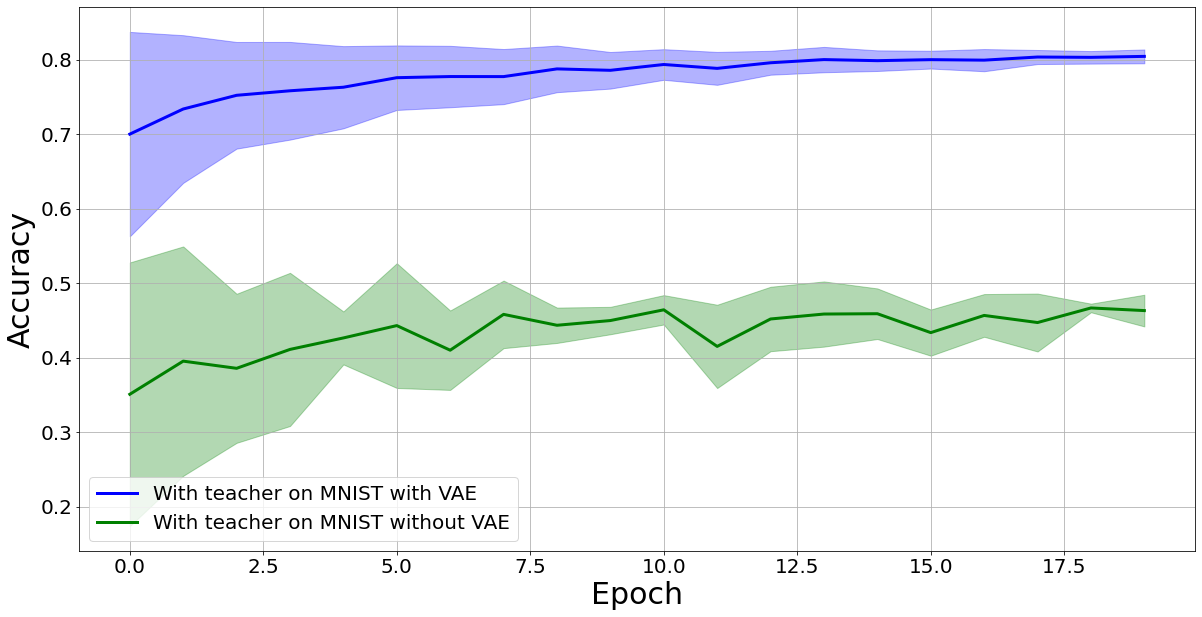
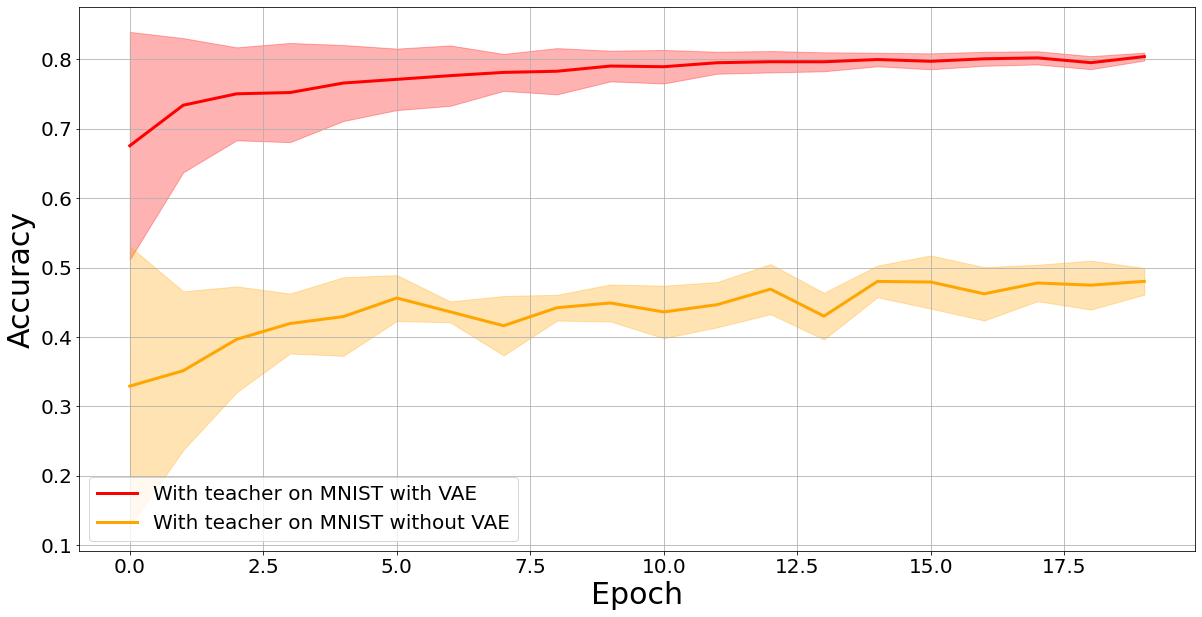
Updates from Overleaf

diff --git a/Text/experiment.tex b/Text/experiment.tex
@@ -4,12 +4,37 @@
 
 Для анализа моделей, полученных путем дистилляции модели учителя в модель ученика, проводится вычислительный эксперимент для задачи классификации.\\
 Эксперимент проводится для выборки FashionMNIST~\cite{FMNIST} - набора изображений предметов одежды. В качестве моделей учителя $\textbf{f}$ и ученика $\textbf{g}$ рассматриваются четырёхслойная и однослойная нейронные сети соответсвенно. Функция активации --- ReLu. Для решения оптимизационной задачи используется градиентный метод Adam~\cite{Adam}.\\
-Выборка разделяется на 3 части: две для обучения многоресурного и малоресурсного доменов, а также тестовая часть выборки. Многоресурсная часть содержит 59000 объектов, малоресурсная часть содержит 1000 объектов, а тестовая часть содержит 10000 объектов.
+Выборка разделяется на 3 части: многоресурсная, малоресурсная, а также тестовая часть выборки. Многоресурсная часть содержит 59000 объектов, малоресурсная часть содержит 1000 объектов, а тестовая часть содержит 10000 объектов.
+
+\begin{table}[h!t]
+\begin{center}
+\caption{Выборки}
+\label{table_1}
+\begin{tabular}{|c|c|c|}
+\hline
+	Выборка & название &\# элементов\\
+	\hline
+	\multicolumn{1}{|l|}{FashionMNIST}
+	& Вся выборка& 60000\\
+	\hline
+	\multicolumn{1}{|l|}{train big}
+	& Многоресурсная часть& 59000\\
+	\hline
+	\multicolumn{1}{|l|}{train small}
+	& Малоресурсная часть& 1000\\
+	\hline
+	\multicolumn{1}{|l|}{test}
+	& Тестовая часть& 10000\\
+\hline
+
+\end{tabular}
+\end{center}
+\end{table}
 
 \subsection{Анализ базовой дистилляции}
 
-\paragraph{Обучение на обоих доменах.}
-Модели учителя и ученика обучаются на обоих доменах.\\
+\paragraph{Обучение на всей выборке.}
+Модели учителя и ученика обучаются всей выборке FashionMNIST~\cite{FMNIST}.\\
 \begin{figure}[h!t]\center
 \subfloat[]
 {\includegraphics[width=0.5\textwidth]{results/acc}}
@@ -22,8 +47,8 @@
 На графиках видно, что модель, использующая метки учителя, показывает лучшее значение accuracy, при этом наблюдается значительное снижение кросс-энтропийной ошибки.
 
 
-\paragraph{Обучение на малоресурсном домене.}
-Модель учителя обучается на многоресурсном домене, а модель ученика обучается на малоресурсном домене.\\
+\paragraph{Обучение на малоресурсной части.}
+Модель учителя обучается на многоресурсной части, а модель ученика обучается на малоресурсной части.\\
 \begin{figure}[h!t]\center
 \subfloat[]
 {\includegraphics[width=0.5\textwidth]{results/small_acc}}
@@ -37,7 +62,7 @@
 
 \newpage
 \paragraph{Обучение на выборке с шумом.}
-Добавим к многоресурсному домену нормальный шум $\mathcal{N}\bigr(0,\frac{1}{10}\bigr)$ и обучим на нем модель учителя. Модель ученика обучается на малоресурсном домене без шума.
+Добавим к многоресурсной части нормальный шум $\mathcal{N}\bigr(0,\frac{1}{10}\bigr)$ и обучим на нем модель учителя. Модель ученика обучается на малоресурсной части без шума.
 \begin{figure}[h!t]\center
 {\includegraphics[width=0.5\textwidth]{results/noise}}
 \caption{Сравнение объекта выборки до и после добавления шума}
@@ -52,10 +77,11 @@
 \end{figure}\\
 На рис.4а показан график зависимости метрики accuracy на тестовой выборке между истинными метками объектов и вероятностями, предсказанными моделью ученика.\\
 На рис.4б показан график зависимости кросс-энтропии на тестовой выборке между истинными метками объектов и вероятностями, предсказанными моделью ученика.\\
-На графиках видно, что значения accuracy и CrossEntropyLoss модели, использующей метки учителя на выборке с шумом, лежат между соответствующими значениями для модели без учителя и для модели, использующей метки учителя на выборке без шума. Получаем, что шум в выборке не влияет на качество.
+На графиках видно, что значения accuracy и CrossEntropyLoss модели, использующей метки учителя на выборке с шумом, лежат между соответствующими значениями для модели без учителя и для модели, использующей метки учителя на выборке без шума.\\
+Получаем, что шум в выборке не влияет на качество.
 
 \paragraph{Обучение на выборке с dilation.}
-Применим к многоресурсному домену сверточное преобразование с параметром $\text{dilation}=2$ и обучим на нем модель учителя. Модель ученика обучается на малоресурсном домене.\\
+Применим к многоресурсной части сверточное преобразование с параметром $\text{dilation}=2$ и обучим на нем модель учителя. Модель ученика обучается на малоресурсной части.\\
 \begin{figure}[h!t]\center
 {\includegraphics[width=0.5\textwidth]{results/dilation}}
 \caption{Сравнение объекта выборки до и после преобразования}
@@ -73,7 +99,7 @@
 На графиках видно, что значения accuracy и CrossEntropyLoss модели, использующей метки учителя на выборке с преобразованием, лежат между соответствующими значениями для модели без учителя и для модели, использующей метки учителя на выборке без преобразования.
 
 \subsection{Вариационный автокодировщик}
-В качестве преобразования элементов выборки FashionMNIST~\cite{FMNIST} в элементы выборки MNIST используем модель вариационного автокодировщика, аппроксимирующую отображение $\varphi$.
+В качестве преобразования элементов выборки FashionMNIST~\cite{FMNIST} в элементы выборки MNIST~\cite{MNIST} используем модель вариационного автокодировщика~\cite{VAE}, аппроксимирующую отображение $\varphi$.
 \paragraph{Базовая модель автокодировщика.} Данная модель состоит из двух частей. Сначала строится вероятностоное распределение в скрытом пространстве, которое позволяет генерировать кодовые представления для одного объекта. Далее с помощью декодировщика строится вероятностное распределение, позволяющее генерировать реконструкци исходного объекта.\\
 \\
 $\mathbf{q_{\alpha}(z|x)}$-вероятностный кодировщик\\
@@ -87,7 +113,7 @@ $$\hat{\alpha}, \hat{\beta} = \arg\max_{\alpha, \beta} \mathcal{L}(\alpha, \beta
 
 \newpage
 \paragraph{Генерация отображения из FashionMNIST в MNIST.}
-Воспользуемся моделью вариационного автокодировщика для преобразования изображений одежды из выборки FashionMNIST~\cite{FMNIST} в изображения цифр на основе выборки MNIST.\\
+Воспользуемся моделью вариационного автокодировщика~\cite{VAE} для преобразования изображений одежды из выборки FashionMNIST~\cite{FMNIST} в изображения цифр на основе выборки MNIST~\cite{VAE}.\\
 Создадим синтетическую выборку, где каждому изображению одежды будет соответстовать случайное изображение цифры из того же класса.\\
 \begin{figure}[h!t]\center
 \subfloat[]
@@ -97,8 +123,8 @@ $$\hat{\alpha}, \hat{\beta} = \arg\max_{\alpha, \beta} \mathcal{L}(\alpha, \beta
 {\includegraphics[width=0.4\textwidth]{results/fmnist_vae_mnist.png}}\\
 \caption{a) Объекты синтетический выборки; b) Объекты исходной выборки до и после работы автокодировщика}
 \end{figure}\\
-Далее воспользуемся моделью вариационного автокодировщика, состоящего из одного кодировщика и двух декодировщиков, соответствующих генерации объектов цифр или одежды. Используем модель с размером скрытого представления, равным 64.\\
-На основе данной выборки обучим модель вариационного автокодировщика, минимизируя ошибку между выходом модели и исходным значением --- изображением одежды и ошибку между выходом модели и целевым значением --- изображением цифр, соответствующего исходному объекту.\\
+Далее воспользуемся моделью вариационного автокодировщика~\cite{VAE}, состоящего из одного кодировщика и двух декодировщиков, соответствующих генерации объектов цифр или одежды. Используем модель с размером скрытого представления, равным 64.\\
+На основе данной выборки обучим модель вариационного автокодировщика~\cite{VAE}, минимизируя ошибку между выходом модели и исходным значением --- изображением одежды и ошибку между выходом модели и целевым значением --- изображением цифр, соответствующего исходному объекту.\\
 Получили модель, способную генеририровать семейство новых объектов - изображений цифры или изображений одежды для одного и того же изображения одежды.
 \newpage
 Посмотрим также на изменение выхода модели при изменении случайного вектора в скрытом представлении. Для визуализации построим скрытое представление размерности 2:\\
@@ -113,7 +139,9 @@ $$\hat{\alpha}, \hat{\beta} = \arg\max_{\alpha, \beta} \mathcal{L}(\alpha, \beta
 \end{figure}\\
 
 \subsection{Анализ качества модели, предложенной на основе вариационного автокодировщика}
-Будем обучать модель учителя на выборке MNIST, а модель ученика на выборке FashionMNIST. При этом при обучении модели ученика будем использовать метки учителя, подавая ему на вход выход вариационного автокодировщика, переводящего изображения одежды в изображения цифр.\\
+Будем обучать модель учителя на выборке MNIST~\cite{MNIST}, а модель ученика на выборке FashionMNIST~\cite{FMNIST}. При этом при обучении модели ученика будем использовать метки учителя, подавая ему на вход выход вариационного автокодировщика~\cite{VAE}, переводящего изображения одежды в изображения цифр.\\
+Также для сравнения покажем качество аппроксимации без использования вариационного автокодировщика~\cite{VAE}: модель ученика обучается на выборке FashionMNIST~\cite{FMNIST}, модель учителя обучается на выборке MNIST~\cite{MNIST} и используется при обучении ученика, получая на вход изображения одежды без преобразования вариационным автокодировщиом.\\
+
 \begin{figure}[h!t]\center
 \subfloat[]
 {\includegraphics[width=0.5\textwidth]{results/vae_acc}}
@@ -121,18 +149,28 @@ $$\hat{\alpha}, \hat{\beta} = \arg\max_{\alpha, \beta} \mathcal{L}(\alpha, \beta
 {\includegraphics[width=0.5\textwidth]{results/vae_loss}}\\
 \caption{Качество аппроксимации при использовании VAE на малодоменной выборке. Все результаты усреднены по 5 запускам. a) accuracy; b) CrossEntropyLoss между истинными и предсказанными учеником метками}
 \end{figure}\\
-Также для сравнения покажем качество аппроксимации без использования вариационного автокодировщика.\\
+
 \begin{figure}[h!t]\center
 \subfloat[]
 {\includegraphics[width=0.5\textwidth]{results/vae_acc_comparison}}
 \subfloat[]
 {\includegraphics[width=0.5\textwidth]{results/vae_loss_comparison}}\\
 \caption{Сравнение качества аппроксимации в зависимости от использования VAE на малодоменной выборке. Все результаты усреднены по 5 запускам. a) accuracy; b) CrossEntropyLoss между истинными и предсказанными учеником метками}
-\end{figure}\\
+\end{figure}
 
-На графике видно, что без использования отображения $\varphi$ модель становится более шумной с явным снижением точности.
+На графиках видно, что без использования отображения $\varphi$ модель становится более шумной с явным понижением качества аппроксимации.
 
 \newpage
 \subsection{Анализ качества модели на расширенной синтетически сгенерированной выборке}
-Для каждого объекта малодоменной выборки сгенерируем 70 изображений цифр с помощью модели вариационного автокодировщика и создадим новую выборку из 70000 объектов.\\
-Модель ученика обучается на малодоменной выборке, модель учителя на новой выборке и используется при обучении ученика.
+На основе малоресурсной части выборки сгенерируем новую выборку, сгенерировав для каждого объекта одежды 70 изображений цифр с помощью модели вариационного автокодировщика~\cite{VAE}. Далее разделим полученную выборку на две части: часть для обучения содержит 60000 объектов, тестовая часть содержит 10000 объектов.\\
+Модель ученика обучается на малоресурсной части выборки, модель учителя на сгенерированной расширенной выборке и используется при обучении ученика.
+
+\begin{figure}[h!t]\center
+\subfloat[]
+{\includegraphics[width=0.5\textwidth]{results/ext_mnist_acc.png}}
+\subfloat[]
+{\includegraphics[width=0.5\textwidth]{results/ext_mnist_loss.png}}\\
+\caption{Качество аппроксимации на тестовой выборке. Все результаты усреднены по 5 запускам. a) accuracy; b) CrossEntropyLoss между истинными и предсказанными учеником метками}
+\end{figure}\\
+
+На графиках видно, что значения accuracy и CrossEntropyLoss модели, использующей метки учителя, обученного на сгенерированной расширенной выборке, лежат между соответствующими значениями для модели без учителя и для модели, использующей метки учителя, обученного на многоресурсной части выборки.

diff --git a/Text/introduction.tex b/Text/introduction.tex
@@ -7,7 +7,7 @@
 \paragraph{Новизна.} Предложен подход для случая, когда модели учителя и ученика заданы на выборках разной мощности. При этом задана связь между выборками.
 \subsection{Обзор предметной области}
 Дистилляция моделей машинного обучения использует метки модели с большим числом параметров для обучения модели с меньшим числом параметров. В~\cite{Hinton2015} рассматривается метод дистилляции, предложенной Дж.Хинтоном, с учетом меток учителя при помощи функции \text{softmax} с параметром температуры, а в~\cite{Vapnik2016} рассматривается объединение методов дистилляци, предложенной Дж.Хинтоном, и привилегированной информации~\cite{Vapnik2016}, предложенной В.Вапником, в обобщенную дистилляцию. Дистиляцция моделей используется в широком классе задач. В~\cite{MDASR} рассматривается метод дистилляции моделей для задачи распознавания речи.\\
-Часто выборки могут состоять из объектов, которые можно разделить на домены~\cite{image_to_image}. К примеру, можно составить отображение из множества реальных фотографий малой мощности во множество сгенерированных движком изображений, мощность которого естественно больше~\cite{DA}. Одним из самых простых примеров генерации новых изображений является работа модели вариационного автокодировщика~\cite{VAE}, способного для одного и того же объекта строить вероятностное распределение, на основе которого можно получить целое семейство новых объектов. Для задачи дистилляции, предложенной Джеффри Хинтоном, исходный и целевой домены равны. Различные постановки задач доменной адаптации описываются в~\cite{DeepvisDA}, встречаются постановки с частично размеченным целевым доменом и неразмеченным вовсе. Таким образом, доменная адаптация использует размеченные данные нескольких исходных доменов для выполнения новых задач в целевом домене.\\
+Часто выборки могут состоять из объектов, которые можно разделить на домены~\cite{image_to_image, DA via prompt learning}. К примеру, можно составить отображение из множества реальных фотографий малой мощности во множество сгенерированных движком изображений, мощность которого естественно больше~\cite{DA,UDA}. Одним из самых простых примеров генерации новых изображений является работа модели вариационного автокодировщика~\cite{VAE}, способного для одного и того же объекта строить вероятностное распределение, на основе которого можно получить целое семейство новых объектов. Для задачи дистилляции, предложенной Джеффри Хинтоном~\cite{Hinton2015}, исходный и целевой домены равны. Различные постановки задач доменной адаптации описываются в~\cite{DeepvisDA}, встречаются постановки с частично размеченным целевым доменом и неразмеченным вовсе. Таким образом, доменная адаптация использует размеченные данные нескольких исходных доменов для выполнения новых задач в целевом домене.\\
 Типичной задачей дистилляции моделей на многодоменных выборках является задача машинного перевода текстов, описанная в~\cite{KimRush2016}.\\
 \subsection{Предложенный метод}
 Предлагается при обучении модели ученика использовать помимо меток учителя также и связь между доменами с возможностью выбора веса дистилляции. Таким образом в качестве доменов разной мощности могут служить настоящие и сгенерированные изображения.\\

diff --git a/Text/conclusion.tex b/Text/conclusion.tex
@@ -1,3 +1,50 @@
 \newpage
 
 \section{Заключение}
+
+\begin{table}[h!t]
+\begin{center}
+\caption{Результаты экспериментов}
+\label{table_2}
+\begin{tabular}{|c|c|c|c|c|}
+\hline
+	Ученик & Учитель & От-ие $\varphi$ & Accuracy & CrossEntropyLoss\\
+	\hline
+	\multicolumn{1}{|l|}{FashionMNIST}
+	& --- & --- & 0.879 & 0.376\\
+	\hline
+	\multicolumn{1}{|l|}{FashionMNIST}
+	& FashionMNIST & --- & 0.884 & 0.332\\
+	\hline
+	\multicolumn{1}{|l|}{train small}
+	& --- & --- & 0.796 & 0.616\\
+	\hline
+	\multicolumn{1}{|l|}{train small}
+	& train big & --- & 0.812 & 0.560\\
+	\hline
+	\multicolumn{1}{|l|}{train small}
+	& train big& Noise & 0.811 & 0.563\\
+	\hline
+	\multicolumn{1}{|l|}{train small}
+	& train big & Dilation & 0.804 & 0.576\\
+	\hline
+	\multicolumn{1}{|l|}{train small}
+	& MNIST & VAE& 0.804 & 0.625\\
+	\hline
+	\multicolumn{1}{|l|}{train small}
+	& MNIST & ---& 0.480 & 1.241\\
+	\hline
+	\multicolumn{1}{|l|}{train small}
+	& synthetic MNIST & VAE & 0.806 & 0.576\\
+\hline
+
+\end{tabular}
+\end{center}
+\end{table}
+
+В работе исследована проблема понижения сложности модели при ее переносе к новым данным меньшей мощности.
+Рассмотрены методы дистилляции моделей и доменной адаптации.
+Был предложен подход для случая, когда модели учителя и ученика заданы на выборках разной мощности с известной связью между выборками.
+
+В ходе экспериментов, проведенных на реальных и синтетических данных, показано что предложенные методы хорошо работают для передачи знаний от большой модели к меньшей дистиллированной модели.
+Результаты экспериментов представлены в таблице~\ref{table_2}.

diff --git a/Text/bibliography.tex b/Text/bibliography.tex
@@ -36,5 +36,12 @@
     
     \bibitem{Adam}
     \textit{Kingma D., Ba J.} Adam: A Method for Stochastic Optimization // ICLR. — 2015.
+    
+    \bibitem{UDA}
+    \textit{Hongruixuan Chen, Chen Wu, Yonghao Xu, Bo Du} Unsupervised Domain Adaptation for Semantic Segmentation via Low-level Edge Information Transfer. --- 2021.
+    
+    \bibitem{DA via prompt learning}
+    \texit{Chunjiang Ge, Rui Huang, Mixue Xie, Zihang Lai} Domain Adaptation via Prompt Learning. --- 2022.
+
 	
 \end{thebibliography}
